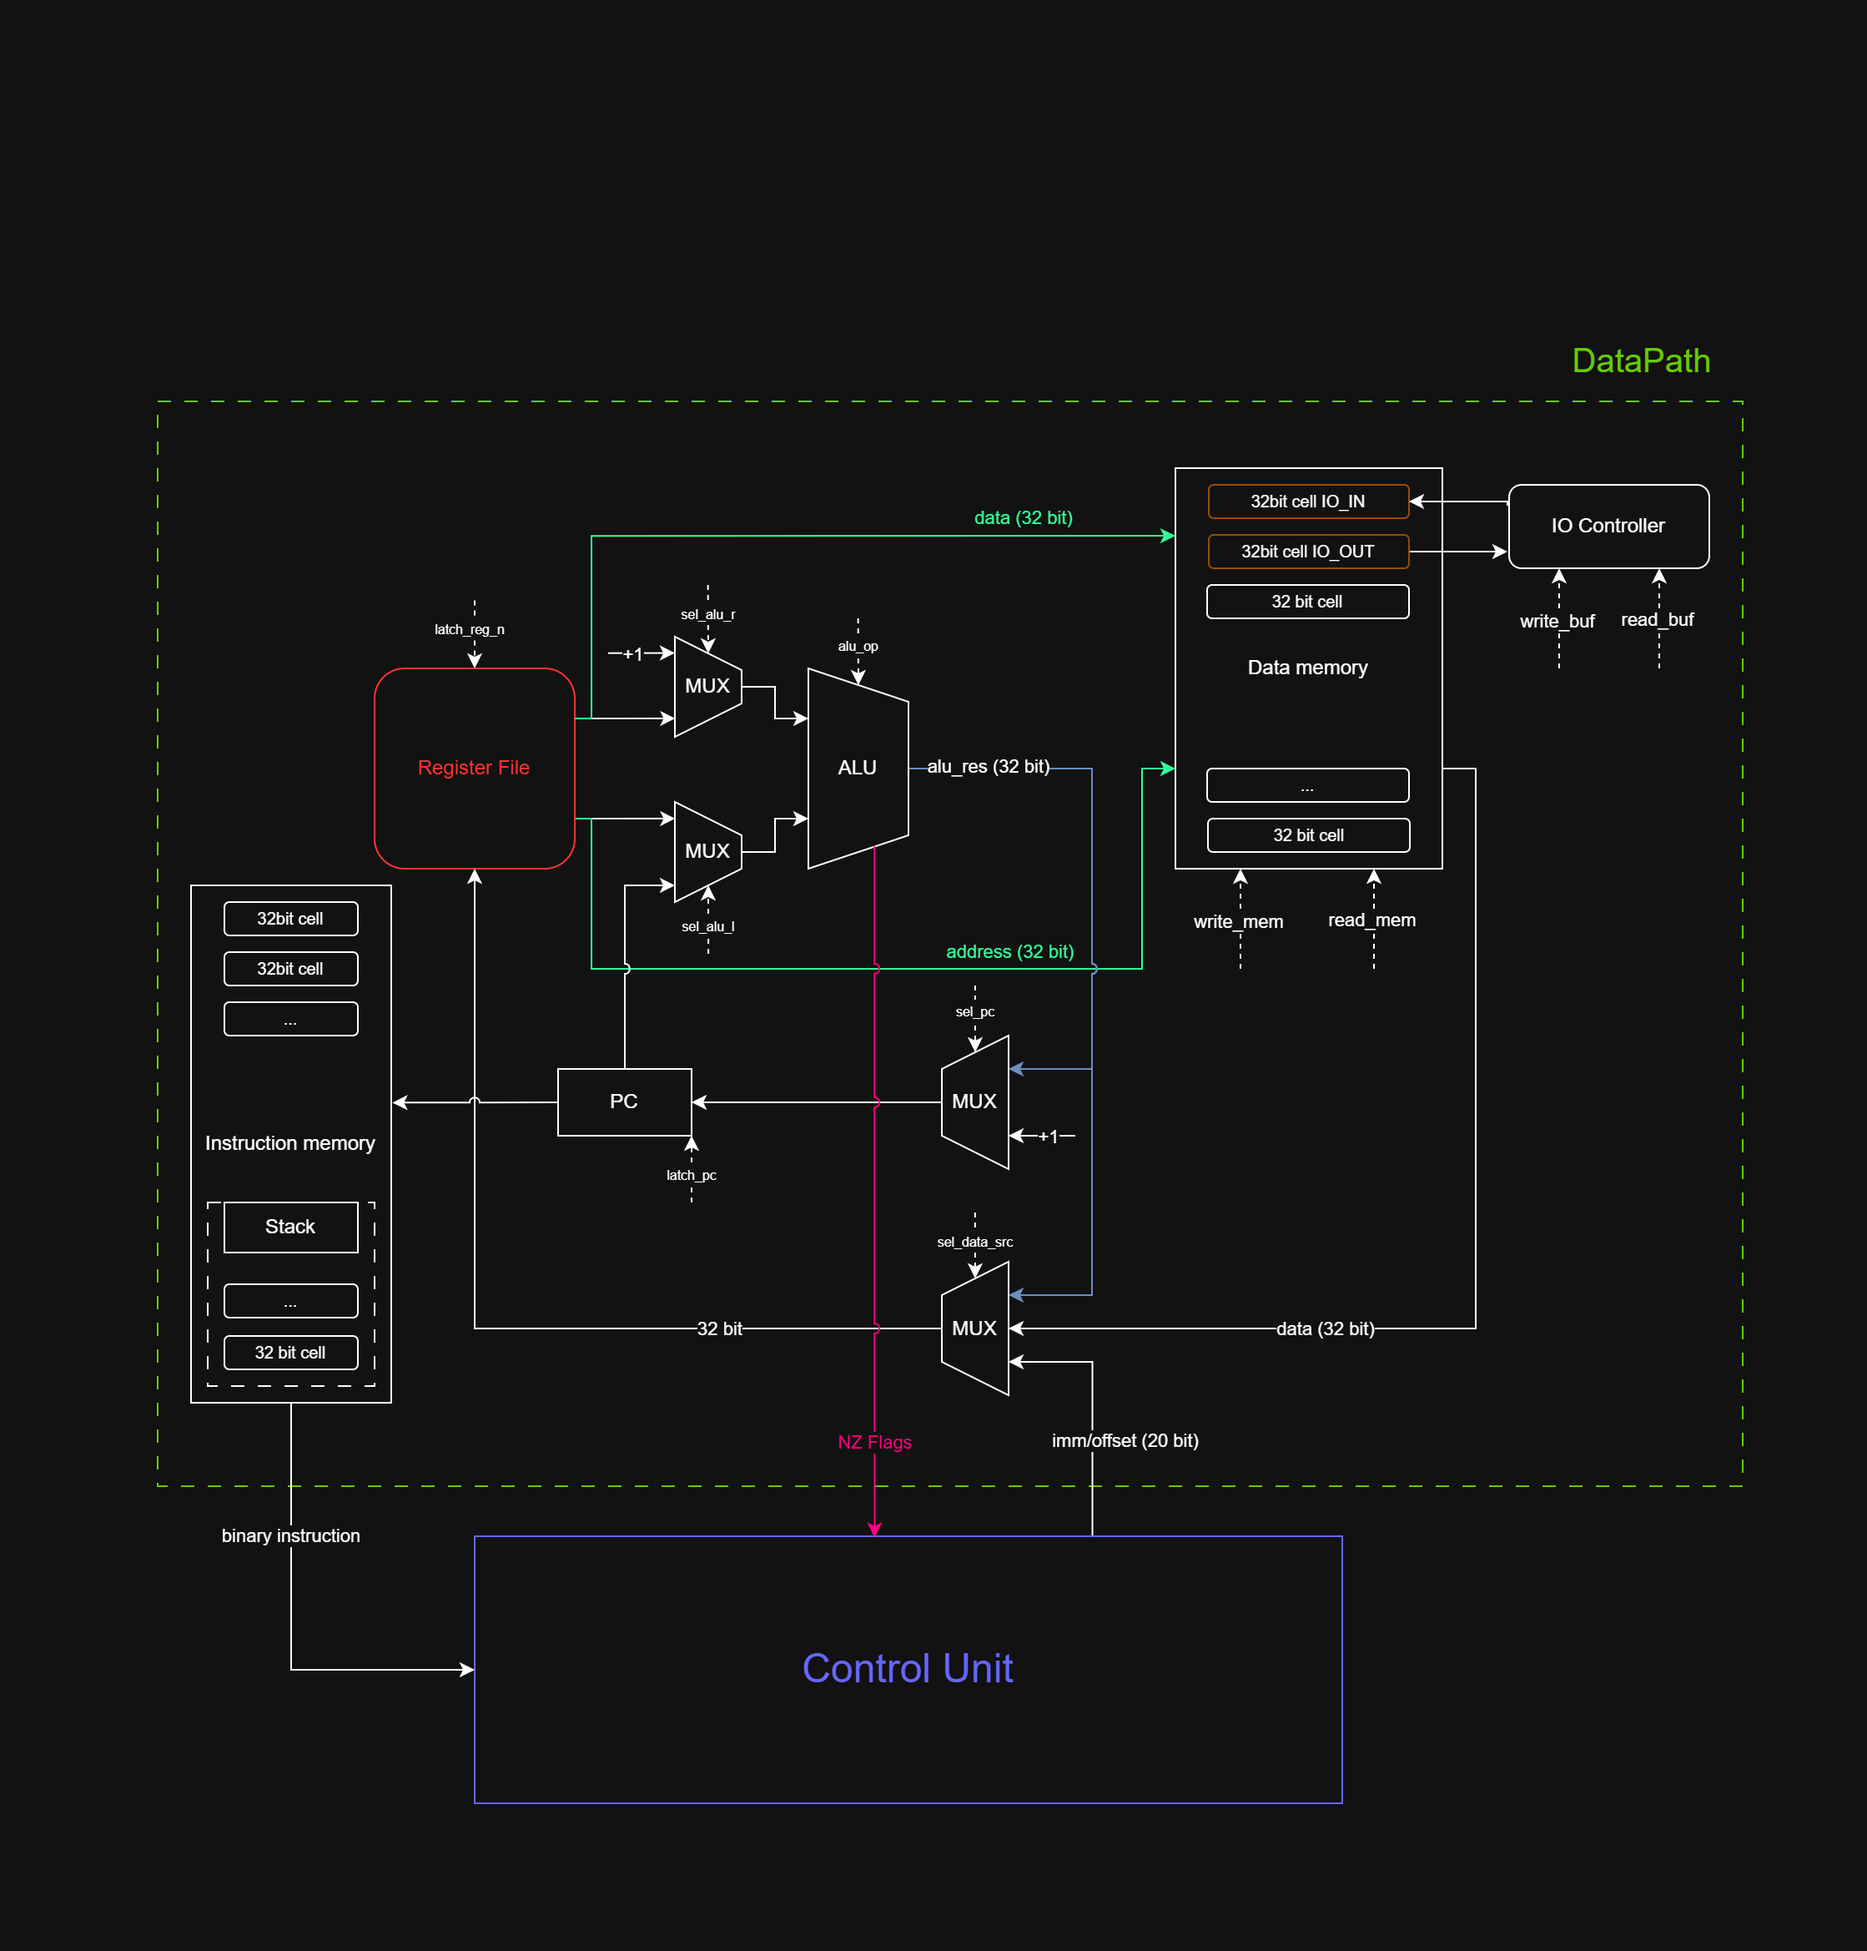
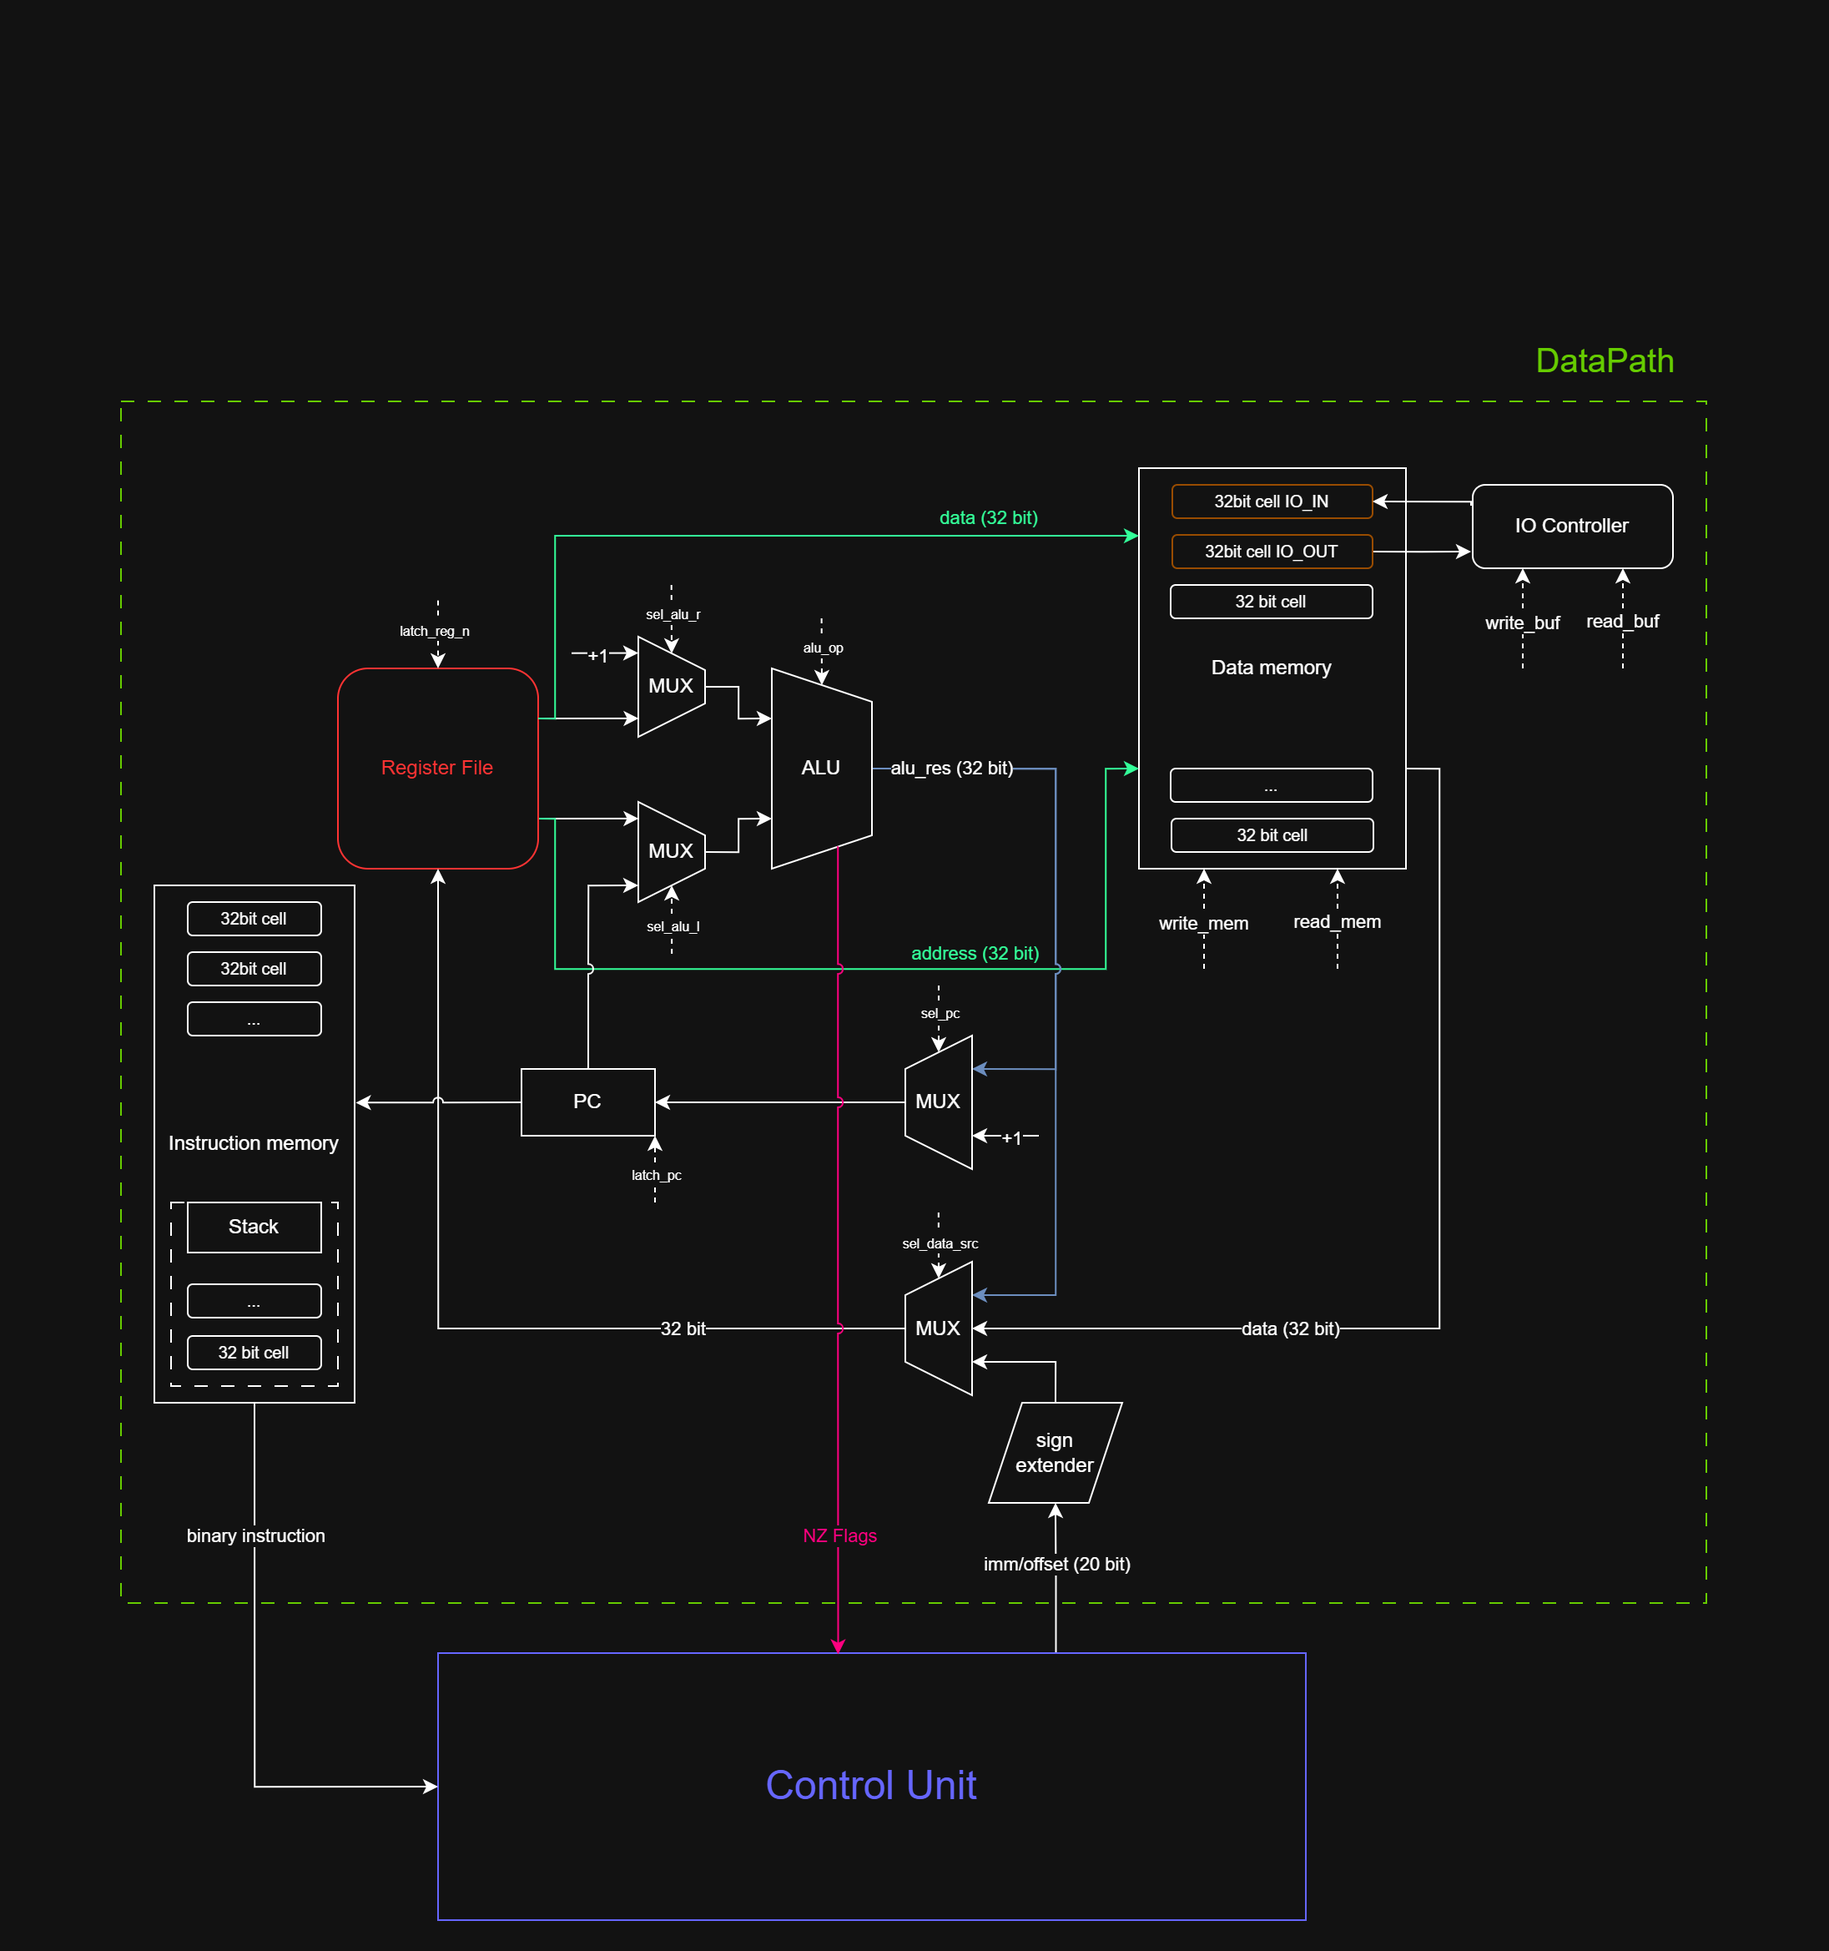
:memo: microcode description & scheme fix

diff --git a/README.md b/README.md
@@ -21,10 +21,10 @@
 
 <instruction> ::=
                "lui" <register> "," { <label> | <string> | <number> }
-               | "sw" <register> "," <register> "," { <label> | <string> | <number> } [ <comment> ]
-               | "lw" <register> "," <register> "," { <label> | <string> | <number> } [ <comment> ]
                | "addi" <register> "," <register> "," { <label> | <string> | <number> } [ <comment> ]
                | "ori" <register> "," <register> "," { <label> | <string> | <number> } [ <comment> ]
+               | "sw" <register> "," <register> "," { <label> | <number> } [ <comment> ]
+               | "lw" <register> "," <register> "," { <label> | <number> } [ <comment> ]
                | "add" <register> "," <register> "," <register> [ <comment> ]
                | "sub" <register> "," <register> "," <register> [ <comment> ]
                | "mul" <register> "," <register> "," <register> [ <comment> ]
@@ -280,9 +280,9 @@
 
 #### Immediate type (I-type) команды
 
-|  type  | destination register | operation | source register 1 | immediate value / offset |
-|:------:|:--------------------:|:---------:|:-----------------:|:------------------------:|
-| 7 bits |        5 bits        |  3 bits   |      5 bits       |         12 bits          |
+|  type  | destination register | operation | source register 1 | immediate value/offset \[0-11\] bits |
+|:------:|:--------------------:|:---------:|:-----------------:|:------------------------------------:|
+| 7 bits |        5 bits        |  3 bits   |      5 bits       |               12 bits                |
 
 `type = 0100000`
 
@@ -323,9 +323,9 @@
 
 #### Upper type (U-type) команды
 
-|  type  | destination register | immediate value |
-|:------:|:--------------------:|:---------------:|
-| 7 bits |        5 bits        |     20 bits     |
+|  type  | destination register | immediate value \[12-31\] bits |
+|:------:|:--------------------:|:------------------------------:|
+| 7 bits |        5 bits        |            20 bits             |
 
 `type = 0000100`
 
@@ -335,9 +335,9 @@
 
 #### Jump type (J-type) команды
 
-|  type  | destination register | immediate value |
-|:------:|:--------------------:|:---------------:|
-| 7 bits |        5 bits        |     20 bits     |
+|  type  | destination register | immediate value \[0-19\] bits | 
+|:------:|:--------------------:|:-----------------------------:|
+| 7 bits |        5 bits        |            20 bits            |
 
 `type = 0000010`
 
@@ -475,6 +475,45 @@
 
 ### Микрокоманды
 
+| Микрокоманда        | Описание                                                                                 |
+|---------------------|------------------------------------------------------------------------------------------|
+| `latch_ir         ` | Прочитать команду из памяти команд и защелкнуть ее операцию в `IR`                       |
+| `latch_ops        ` | Защелкнуть операнды команды из `Instruction Decoder`                                     |
+| `sel_mpc_inc_one  ` | Управляющий сигнал для выбора 1 в качестве инкремента для `MPC`                          |
+| `sel_mpc_inc_two  ` | Управляющий сигнал для выбора 2 в качестве инкремента для `MPC`                          |
+| `sel_mpc_increment` | Управляющий сигнал для выбора инкремента `MPC`                                           |
+| `sel_mpc_operation` | Управляющий сигнал для выбора записи операции из `IR` в `MPC`                            |
+| `sel_mpc_zero     ` | Управляющий сигнал для выбора записи 0 в `MPC`                                           |
+| `latch_mpc        ` | Защелкнуть значение в `MPC`                                                              |
+| ` latch_reg0 `      | Защелкнуть значение в регистр `r0`                                                       |
+| ` latch_reg1 `      | Защелкнуть значение в регистр `r1`                                                       |
+| ...                 | ...                                                                                      |
+| `latch_reg30 `      | Защелкнуть значение в регистр `r30`                                                      |
+| `latch_reg31 `      | Защелкнуть значение в регистр `r31`                                                      |
+| `sel_left_reg  `    | Управляющий сигнал для выбора регистра на левый выход `Register File`                    |
+| `sel_right_reg `    | Управляющий сигнал для выбора регистра на правый выход `Register File`                   |
+| `sel_data_src_alu`  | Управляющий сигнал для выбора результата из `ALU` для записи в `Register File`           |
+| `sel_data_src_mem`  | Управляющий сигнал для выбора данных из памяти данных для записи в `Register File`       |
+| `sel_data_src_cu `  | Управляющий сигнал для выбора данных из `Control Unit` для записи в `Register File`      |
+| `sel_pc_inc      `  | Управляющий сигнал для выбора инкремента `PC`                                            |
+| `sel_pc_alu      `  | Управляющий сигнал для выбора записи в `PC` результата из `ALU`                          |
+| `sel_alu_r_inc   `  | Управляющий сигнал для выбора подачи единицы на правый вход `ALU`                        |
+| `sel_alu_r_rf    `  | Управляющий сигнал для выбора подачи правого выхода `Register File` на правый вход `ALU` |
+| `sel_alu_l_pc    `  | Управляющий сигнал для выбора подачи `PC` на левый вход `ALU`                            |
+| `sel_alu_l_rf    `  | Управляющий сигнал для выбора подачи левого выхода `Register File` на левый вход `ALU`   |
+| `alu_add         `  | Выполнить сложение в `ALU`                                                               |
+| `alu_sub         `  | Выполнить вычитание в `ALU`                                                              |
+| `alu_mul         `  | Выполнить умножение в `ALU`                                                              |
+| `alu_div         `  | Выполнить деление в `ALU`                                                                |
+| `alu_and         `  | Выполнить логическое И в `ALU`                                                           |
+| `alu_or          `  | Выполнить логическое ИЛИ в `ALU`                                                         |
+| `alu_xor         `  | Выполнить исключающее ИЛИ в `ALU`                                                        |
+| `alu_rshift_32`     | Выполнить логический сдвиг вправо на 32 в `ALU` (для выполнения инструкции `mulh`)       |
+| `latch_pc        `  | Защелкнуть значение в `PC`                                                               |
+| `write_data_mem  `  | Прочитать ячейку из памяти данных                                                        |
+| `read_data_mem   `  | Записать данные в ячейку памяти данных                                                   |
+| `halt            `  | Остановить процессор                                                                     |
+
 ## Транслятор
 
 Интерфейс командной строки: translator.go <input_file> <target_code_file> <target_data_file> Реализовано в
@@ -519,6 +558,7 @@
 - Instruction memory
 - IO Controller
 - Program Counter (PC)
+- Sign Extender для расширения знака `imm/offset` значений
 
 Сигналы:
 
